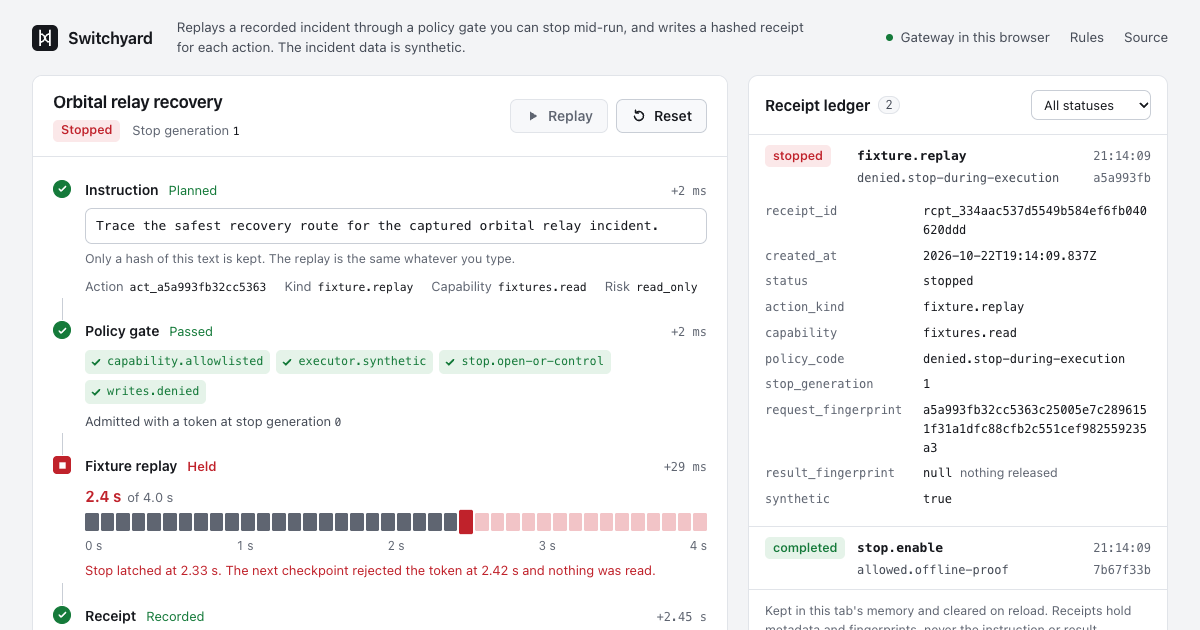
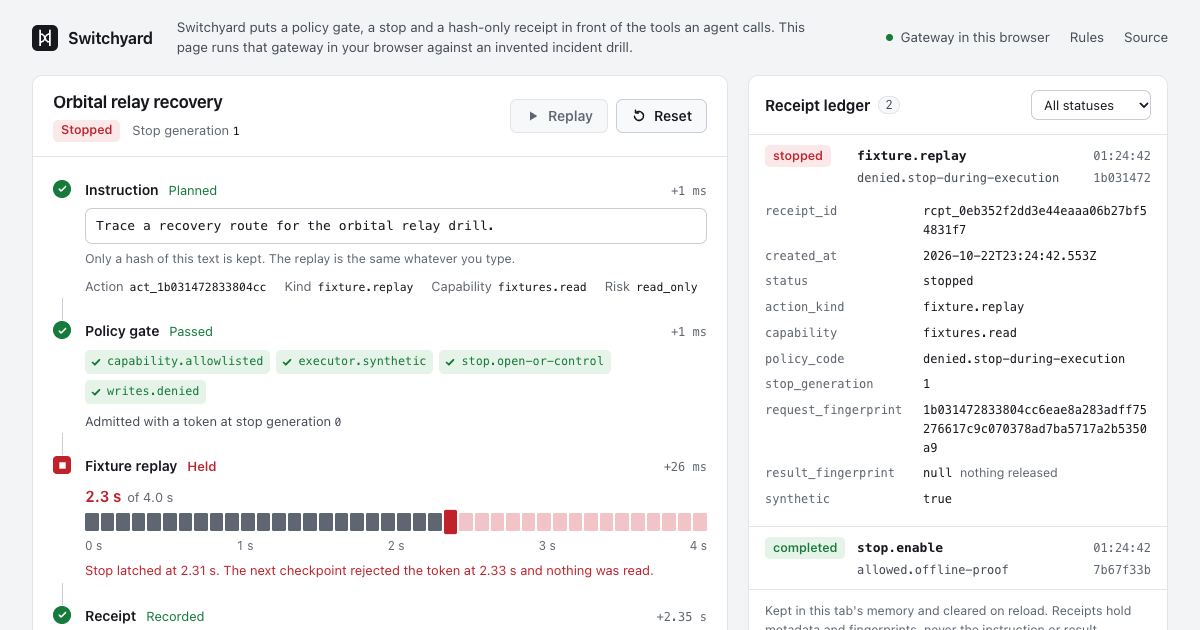
Call the orbital relay fixture an invented drill
The header, meta tags, rules table and fixture labels described a recorded or captured incident. The fixture is invented, so the page now says so once and the fixture labels say drill. The result fingerprint golden changes in both suites because the labels are part of the hashed result. Source content and its fingerprints are unchanged.

diff --git a/frontend/src/components/App.tsx b/frontend/src/components/App.tsx
@@ -15,7 +15,7 @@ import {
 import { CHECKPOINT_MS, INSPECTION_MS, type RouteEvent } from "../lib/engine";
 
 const DEFAULT_COMMAND =
-  "Trace the safest recovery route for the captured orbital relay incident.";
+  "Trace a recovery route for the orbital relay drill.";
 const SOURCE_URL = "https://github.com/fortunexbt/switchyard";
 const GATE_CHECKS = [
   "capability.allowlisted",
@@ -139,9 +139,9 @@ function App() {
           Switchyard
         </h1>
         <p className="topbar-about">
-          Replays a recorded incident through a policy gate you can stop
-          mid-run, and writes a hashed receipt for each action. The incident
-          data is synthetic.
+          Switchyard puts a policy gate, a stop and a hash-only receipt in
+          front of the tools an agent calls. This page runs that gateway in
+          your browser against an invented incident drill.
         </p>
         <nav className="topbar-links" aria-label="Page">
           <span className={`gateway ${connection}`}>
@@ -990,7 +990,7 @@ function Rules({ system }: { system: SystemState | null }) {
                     "fixture.replay",
                     "fixtures.read",
                     "read_only",
-                    "Replays the recorded incident",
+                    "Replays the incident drill",
                   ],
                   [
                     "stop.enable",

diff --git a/frontend/index.html b/frontend/index.html
@@ -7,13 +7,13 @@
     <link rel="icon" type="image/svg+xml" href="/favicon.svg" />
     <meta
       name="description"
-      content="Replay a recorded incident through a deny-by-default policy gate, stop it mid-run, and inspect a receipt that keeps fingerprints instead of commands."
+      content="A policy gate, a stop and a hash-only receipt for the tools an agent calls, running in your browser against an invented incident drill."
     />
     <meta property="og:type" content="website" />
     <meta property="og:title" content="Switchyard" />
     <meta
       property="og:description"
-      content="An operator console that replays a recorded incident through a policy gate. Stop it mid-run and read the receipt it leaves."
+      content="Run an invented incident drill through a policy gate, stop it mid-run and read the receipt it leaves."
     />
     <meta property="og:image" content="https://switchyard-phi.vercel.app/og.png" />
     <meta property="og:image:width" content="1200" />

diff --git a/frontend/tests/engine.test.ts b/frontend/tests/engine.test.ts
@@ -11,7 +11,7 @@ import { isActionResponse, isControlResponse, isReceiptPage, isSystemState } fro
 
 // Produced by backend/app/execution.py fingerprint(); the backend suite asserts the same values.
 const GOLDEN = {
[2 lines of base64/hex data omitted]
   sources: [
[2 lines of base64/hex data omitted]

diff --git a/backend/tests/test_privacy_and_fixtures.py b/backend/tests/test_privacy_and_fixtures.py
@@ -34,7 +34,7 @@ def test_fingerprints_match_the_browser_engine_goldens() -> None:
     # frontend/tests/engine.test.ts asserts the same values against the browser port.
     result, sources = FixtureLibrary().load("orbital-relay-recovery")
     assert fingerprint({"result": result, "sources": sources}) == (
[2 lines of base64/hex data omitted]
     )
     assert [source.fingerprint for source in sources] == [
[1 lines of base64/hex data omitted]

diff --git a/PRODUCT.md b/PRODUCT.md
@@ -9,7 +9,7 @@
 web
 
 ## Users
-Hackathon judges and engineers evaluating agent-safety tooling, opening a hosted demo cold on a laptop or phone. Secondary: the operator running it locally against the FastAPI control plane.
+Python developers who hand functions to an agent as tools and need to deny some calls, stop a run, and keep an audit trail without storing arguments. They use the `guard/` package. The hosted console shows the same pattern to someone opening it cold on a laptop or phone.
 
 ## Product Purpose
 Switchyard is a local-first operator console. It replays one versioned incident fixture (orbital relay recovery) through a deny-by-default policy gate, lets the operator stop in-flight work by invalidating generation tokens, and records body-free audit receipts (fingerprints, not commands or results). Success: a visitor sees a route planned, gated, executing, and stopped within seconds, and can inspect the receipt.
@@ -27,7 +27,7 @@ Three capabilities: fixtures.read, control.stop, control.reset. Writes always de
 Name "Switchyard". Plain, exact voice. Limitations labelled in the product.
 
 ## Evidence on Hand
-Fixture JSON at backend/app/demo_data/orbital-relay-recovery.json. Synthetic data only; no customers or benchmarks exist.
+Fixture JSON at backend/app/demo_data/orbital-relay-recovery.json is an invented drill and the page says so. The guard package runs on the user's own functions. No customers or benchmarks exist.
 
 ## Product Principles
 - Make the safety boundary visible.
